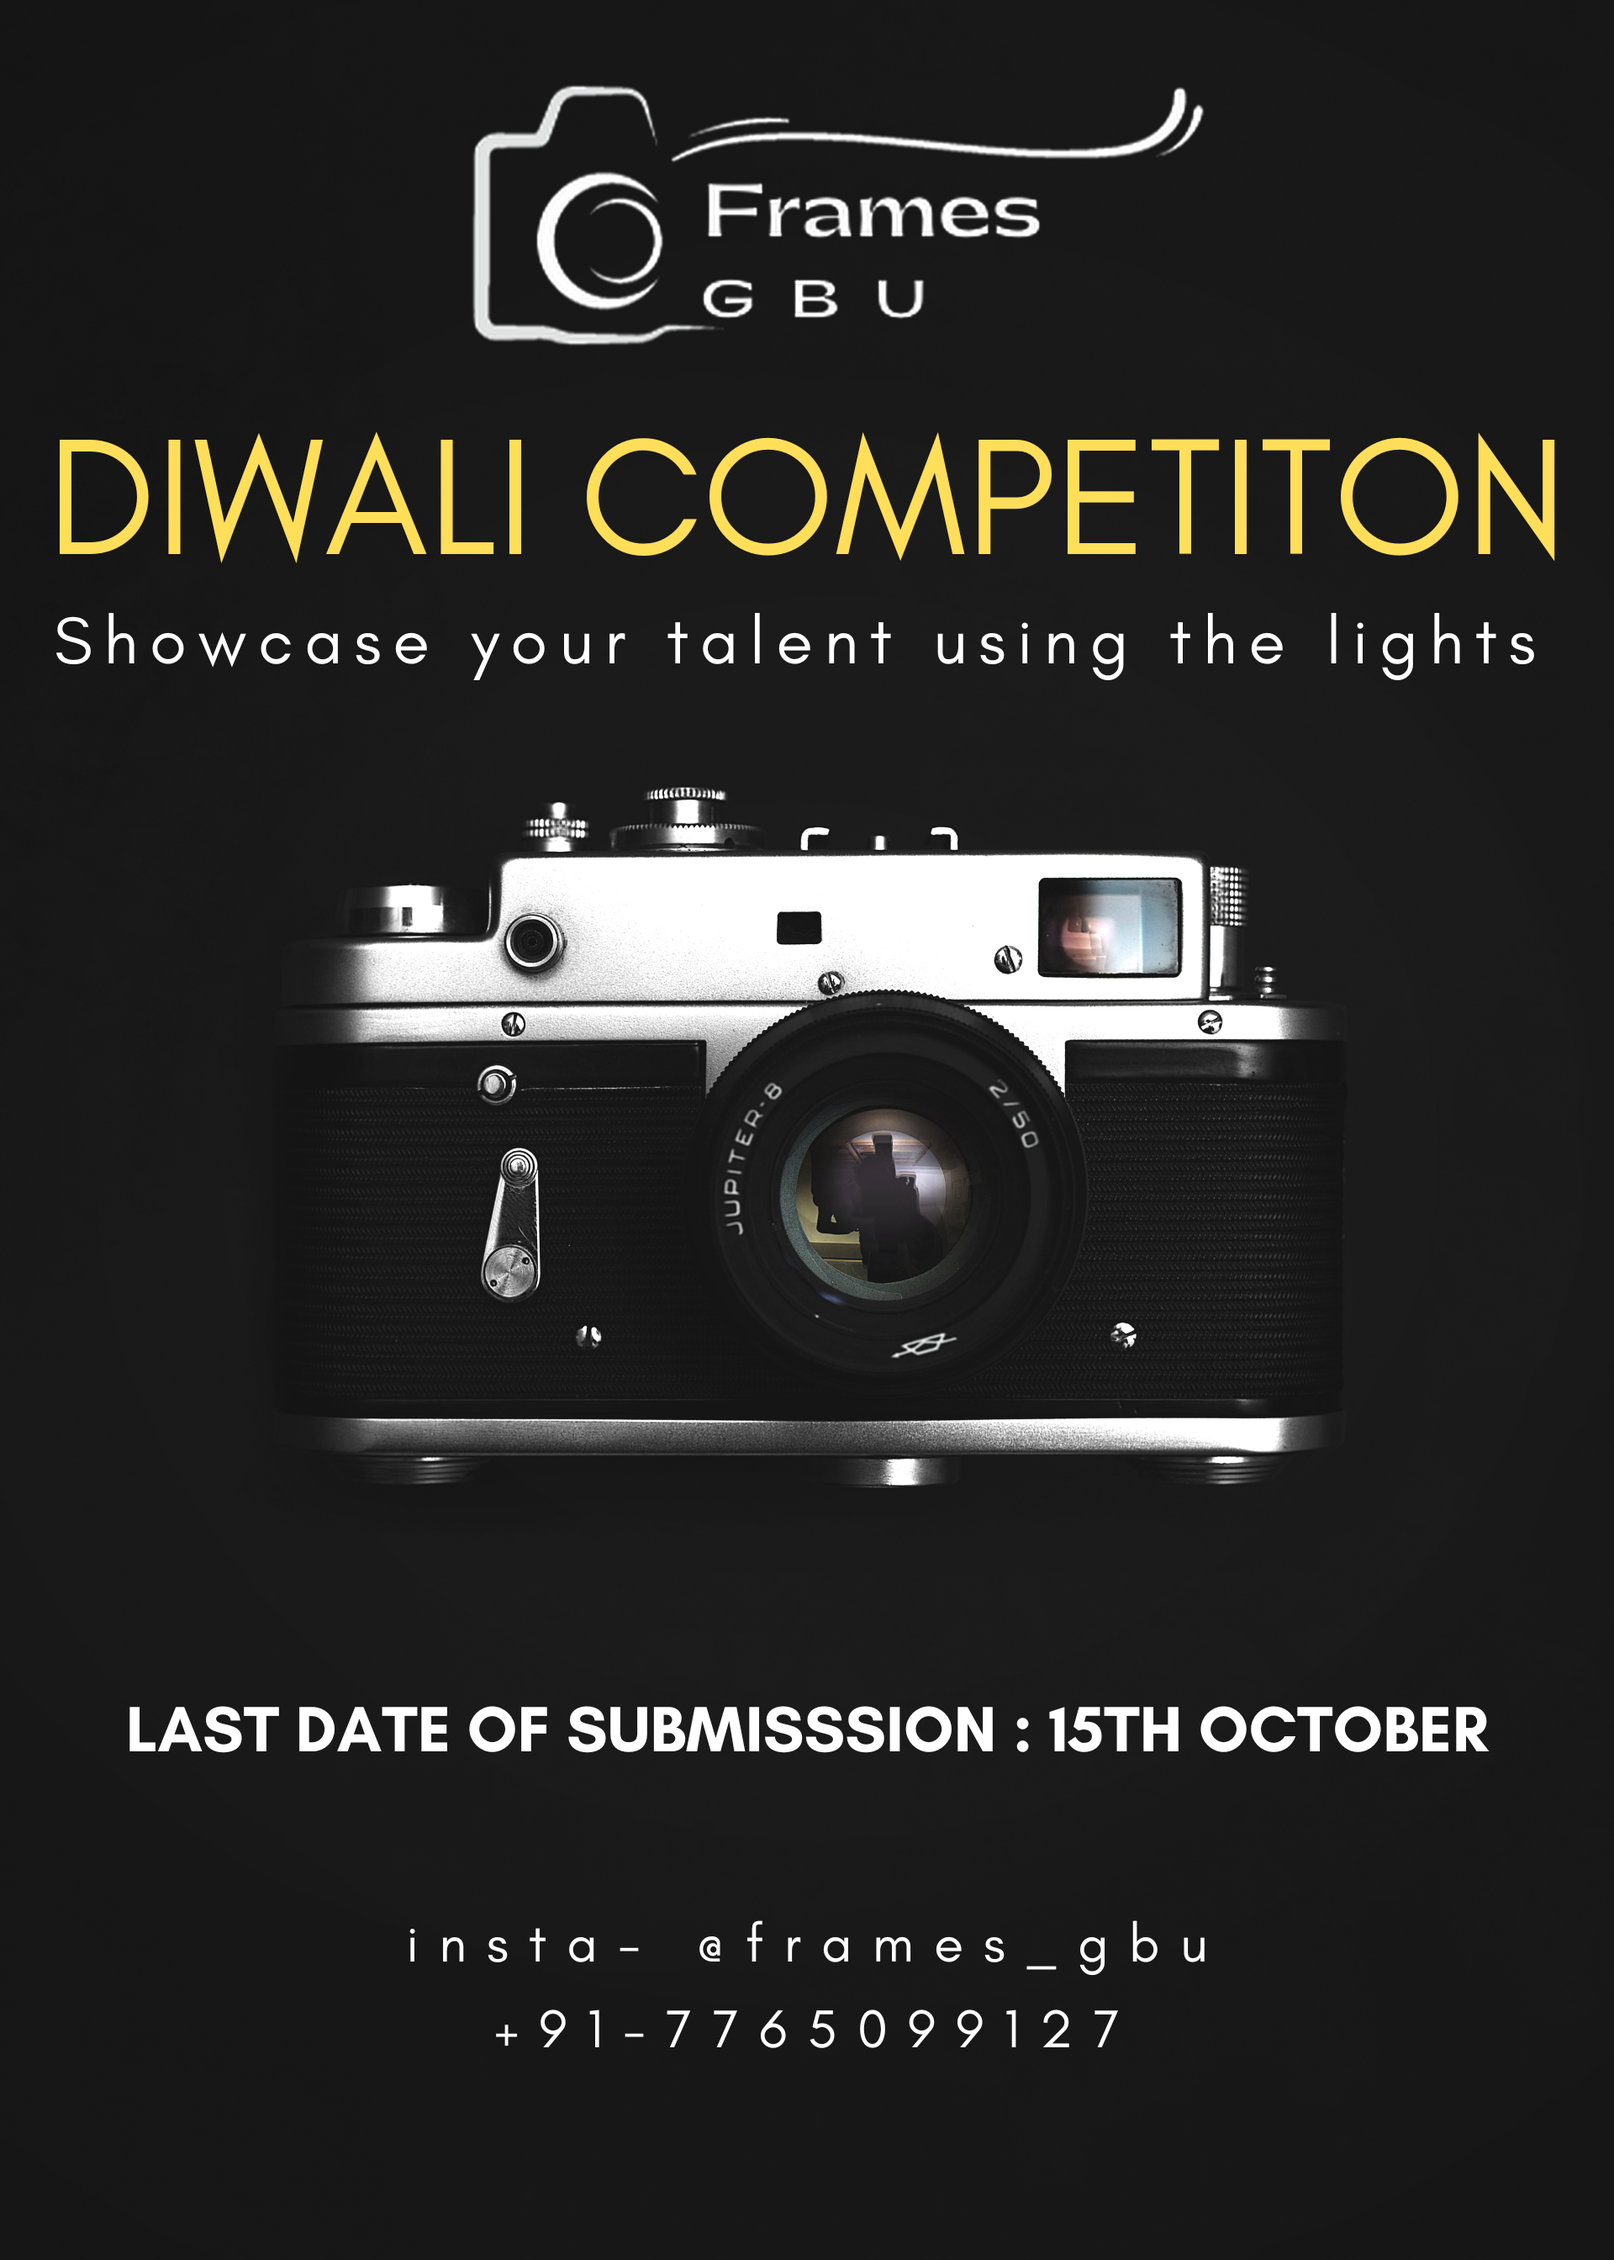
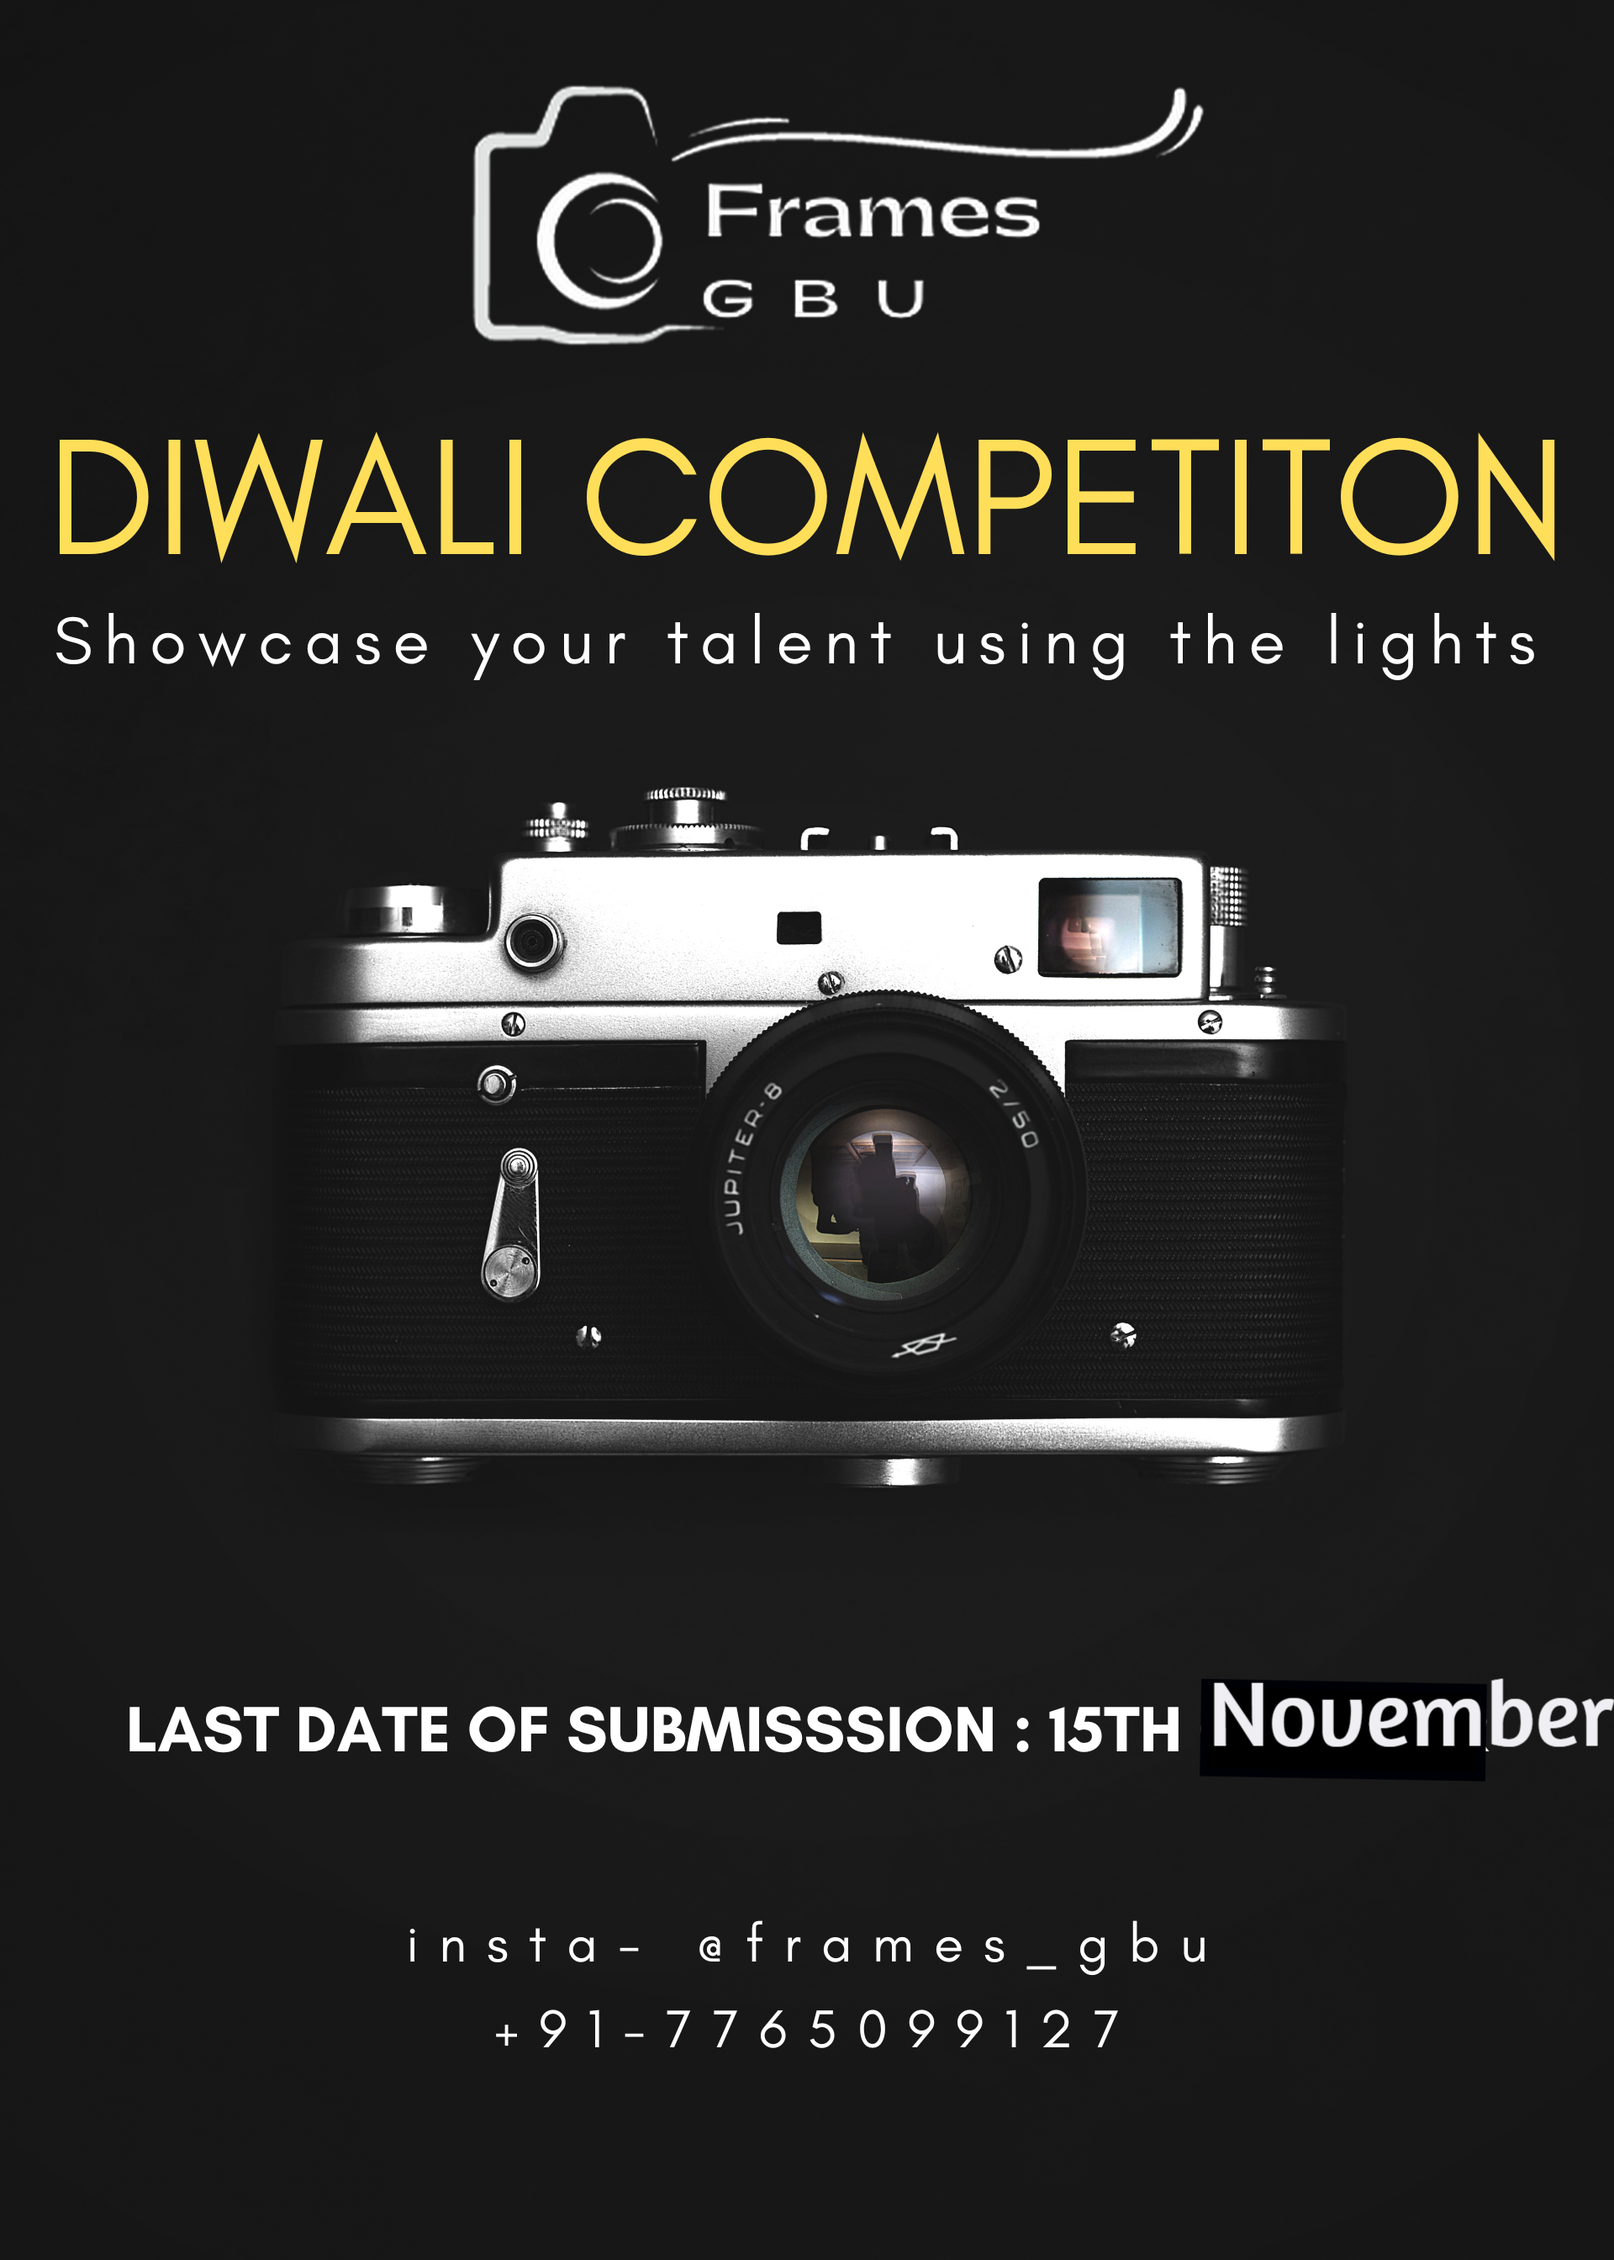
made a few changes

Changed region(s): [[0.7188, 0.7188, 1.0, 0.8125]]

diff --git a/index.html b/index.html
@@ -320,9 +320,9 @@
                 <h4 class="card-title text-center">Frames_GBU Diwali Competition</h4>
                 <!--Text-->
                 <p>
-                <p class="card-texts text-center"><strong> Last Date:</strong> 15<sup>th</sup> October, 2023<br>
+                <p class="card-texts text-center"><strong> Last Date:</strong> 15<sup>th</sup> November, 2023<br>
                   <strong>Theme:</strong> Diwali <br>
-                  <strong>Results On:</strong> 20<sup>th</sup> October, 2023 <br>
+                  <strong>Results On:</strong> 20<sup>th</sup> November, 2023 <br>
                 </p>
                 <p></p>
                 <p><a href="https://forms.gle/CKWZaryQWGgRp9BB6" class="btn btn-primary btn-lg float-center">Participate Now</a>
@@ -416,7 +416,7 @@
         <div class="col-lg-4">
           <div class="team-member">
 			<!-- sir-->
-            <img class="mx-auto rounded-circle" src="assets/img/team/" alt="" />
+            <img class="mx-auto rounded-circle" src="assets/img/team/sir.jpg" alt="" />
             <h4>Anant Pratap Singh</h4>
             <p class="text-muted">Faculty Co-Ordinator</p>
             <a class="btn btn-dark btn-social mx-2" href=#><i
@@ -426,10 +426,10 @@
         <div class="col-lg-4">
           <div class="team-member">
 			<!-- president -->
-            <img class="mx-auto rounded-circle" src="new/" alt="" />
+            <img class="mx-auto rounded-circle" src="assets/img/team/anurag.jpg" alt="" />
             <h4>Anurag Rawal</h4>
             <p class="text-muted">President</p>
-            <a class="btn btn-dark btn-social mx-2" href=#><i
+            <a class="btn btn-dark btn-social mx-2" href=https://www.instagram.com/anurag_rawal_04/><i
                 class="fab fa-instagram"></i></a>
           </div>
         </div>
@@ -437,7 +437,7 @@
         <div class="col-lg-4">
           <div class="team-member">
 			<!-- vice president -->
-            <img class="mx-auto rounded-circle" src="new/" alt="" />
+            <img class="mx-auto rounded-circle" src="assets/img/team/harryy.jpg" alt="" />
             <h4>Harryy</h4>
             <p class="text-muted">Vice President</p>
             <a class="btn btn-dark btn-social mx-2" href="https://www.instagram.com/harryyg7/"><i
@@ -448,7 +448,7 @@
         <div class="row">
         <div class="col-lg">
           <div class="team-member">
-            <img class="mx-auto rounded-circle" src="assets/img/team/" alt="" />
+            <img class="mx-auto rounded-circle" src="assets/img/team/siddharth.jpg" alt="" />
             <h4>Siddharth</h4>
             <p class="text-muted">Event Management</p>
             <a class="btn btn-dark btn-social mx-2" href=#><i
@@ -457,19 +457,19 @@
         </div>
 		<div class="col-lg">
           <div class="team-member">
-            <img class="mx-auto rounded-circle" src="new/" alt="" />
+            <img class="mx-auto rounded-circle" src="assets/img/team/anuj.jpg" alt="" />
             <h4>Anuj</h4>
             <p class="text-muted">Event Management</p>
-            <a class="btn btn-dark btn-social mx-2" href=#><i
+            <a class="btn btn-dark btn-social mx-2" href=https://www.instagram.com/><i
                 class="fab fa-instagram"></i></a>
           </div>
         </div>
         <div class="col-lg">
           <div class="team-member">
-            <img class="mx-auto rounded-circle" src="new/" alt="" />
+            <img class="mx-auto rounded-circle" src="assets/img/team/ujjawal.jpg" alt="" />
             <h4>Ujjawal Kumar</h4>
             <p class="text-muted">Web Developer</p>
-            <a class="btn btn-dark btn-social mx-2" href=#><i
+            <a class="btn btn-dark btn-social mx-2" href=https://www.instagram.com/ujjawal___singh/><i
                 class="fab fa-instagram"></i></a>
           </div>
         </div>
@@ -477,93 +477,95 @@
       <div class="row">
 		<div class="col-lg">
           <div class="team-member">
-            <img class="mx-auto rounded-circle" src="new/" alt="" />
+            <img class="mx-auto rounded-circle" src="assets/img/team/ananya.jpg" alt="" />
             <h4>Anaya Singh </h4>
             <p class="text-muted">Content Writer</p>
-            <a class="btn btn-dark btn-social mx-2" href=#><i
+            <a class="btn btn-dark btn-social mx-2" href=https://www.instagram.com/anannya.ya/><i
                 class="fab fa-instagram"></i></a>
         </div>
         </div>
         <div class="col-lg">
           <div class="team-member">
-            <img class="mx-auto rounded-circle" src="new/" alt="" />
+            <img class="mx-auto rounded-circle" src="assets/img/team/himanshu.jpg" alt="" />
             <h4>Himanshu Pratap Singh</h4>
             <p class="text-muted">Social Media head</p>
-            <a class="btn btn-dark btn-social mx-2" href=#><i
+            <a class="btn btn-dark btn-social mx-2" href=https://www.instagram.com/pratap512/><i
                 class="fab fa-instagram"></i></a>
         </div>
       </div>
       <div class="col-lg">
           <div class="team-member">
-            <img class="mx-auto rounded-circle" src="new/" alt="" />
+            <img class="mx-auto rounded-circle" src="assets/img/team/shikha.jpg" alt="" />
             <h4>Shikha Diwakar</h4>
             <p class="text-muted">Social Media</p>
-            <a class="btn btn-dark btn-social mx-2" href=#></i></a>
+            <a class="btn btn-dark btn-social mx-2" href=https://www.instagram.com/shikhadiwakarr/><i
+                class="fab fa-instagram"></i></a>
           </div>
           </div>
       </div>
       <div class="row">
 		<div class="col-lg">
           <div class="team-member">
-            <img class="mx-auto rounded-circle" src="new/" alt="" />
+            <img class="mx-auto rounded-circle" src="assets/img/team/sakshi.jpg" alt="" />
             <h4>Sakshi Gupta</h4>
             <p class="text-muted">Social Media</p>
-            <a class="btn btn-dark btn-social mx-2" href=#><i
+            <a class="btn btn-dark btn-social mx-2" href=https://www.instagram.com/saki._._/><i
                 class="fab fa-instagram"></i></a>
         </div>
       </div>
 		<div class="col-lg">
           <div class="team-member">
-            <img class="mx-auto rounded-circle" src="new/" alt="" />
+            <img class="mx-auto rounded-circle" src="assets/img/team/munish.jpg" alt="" />
             <h4>Munish</h4>
             <p class="text-muted">Social Media</p>
-            <a class="btn btn-dark btn-social mx-2" href=#><i
+            <a class="btn btn-dark btn-social mx-2" href=https://www.instagram.com/><i
                 class="fab fa-instagram"></i></a>
           </div>
         </div>
 		<div class="col-lg">
           <div class="team-member">
-            <img class="mx-auto rounded-circle" src="new/" alt="" />
-            <h4>Vaibhav Porwal</h4>
-            <p class="text-muted">Social Media</p>
-            <a class="btn btn-dark btn-social mx-2" href=#></i></a>
+            <img class="mx-auto rounded-circle" src="assets/img/team/nitin.jpg" alt="" />
+            <h4>Nitin Tomar</h4>
+            <p class="text-muted">Web Developer</p>
+            <a class="btn btn-dark btn-social mx-2" href=https://www.instagram.com/nitintomar200/><i
+                class="fab fa-instagram"></i></a>
           </div>
         </div>
         </div>
         <div class="row">
           <div class="col-lg">
                 <div class="team-member">
-                  <img class="mx-auto rounded-circle" src="new/" alt="" />
+                  <img class="mx-auto rounded-circle" src="assets/img/team/mayank.jpg" alt="" />
                   <h4>Mayank Sharma</h4>
                   <p class="text-muted">Mentor</p>
-                  <a class="btn btn-dark btn-social mx-2" href=#><i
+                  <a class="btn btn-dark btn-social mx-2" href=https://www.instagram.com/more2mayank/><i
                       class="fab fa-instagram"></i></a>
                 </div>
               </div>
         <div class="col-lg">
           <div class="team-member">
-            <img class="mx-auto rounded-circle" src="assets/img/team/" alt="" />
+            <img class="mx-auto rounded-circle" src="assets/img/team/mohit/jpg" alt="" />
             <h4>Mohit Kumar</h4>
             <p class="text-muted">Mentor</p>
-            <a class="btn btn-dark btn-social mx-2" href=#><i
+            <a class="btn btn-dark btn-social mx-2" href=https://www.instagram.com/boy.from.vns/><i
                 class="fab fa-instagram"></i></a>
           </div>
       </div>
       <div class="col-lg">
           <div class="team-member">
-            <img class="mx-auto rounded-circle" src="assets/img/team/" alt="" />
+            <img class="mx-auto rounded-circle" src="assets/img/team/ayush.jpg" alt="" />
             <h4>Ayush Sinha</h4>
             <p class="text-muted">Mentor</p>
-            <a class="btn btn-dark btn-social mx-2" href=#><i
+            <a class="btn btn-dark btn-social mx-2" href=https://www.instagram.com/ayushsgallery/><i
                 class="fab fa-instagram"></i></a>
           </div>
       </div>
       <div class="col-lg">
           <div class="team-member">
-            <img class="mx-auto rounded-circle" src="assets/img/team/" alt="" />
+            <img class="mx-auto rounded-circle" src="assets/img/team/keshav.jpg" alt="" />
             <h4>Keshav Shakya</h4>
             <p class="text-muted">Mentor</p>
-            <a class="btn btn-dark btn-social mx-2" href=#><i
+            <a class="btn btn-dark btn-social mx-2" href=https://www.instagram.com/kishwhooo/><i
                 class="fab fa-instagram"></i></a>
           </div>
         </div>
